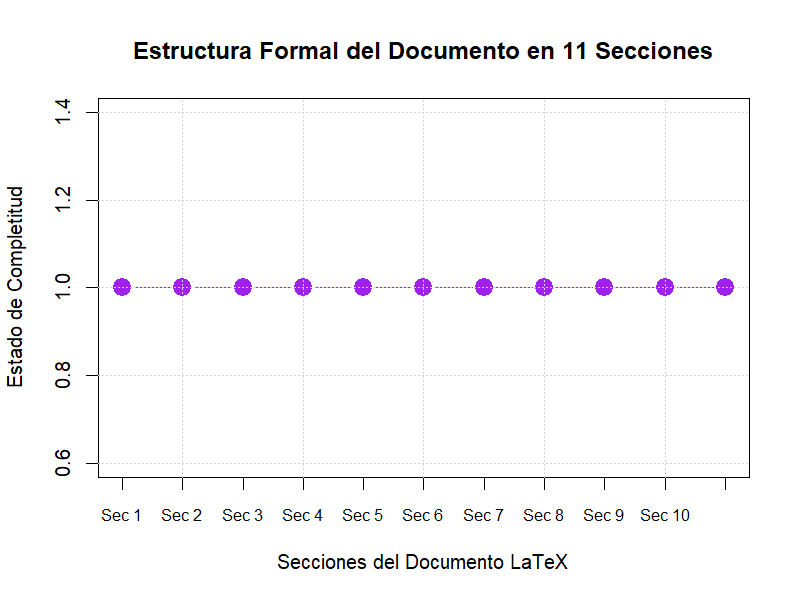
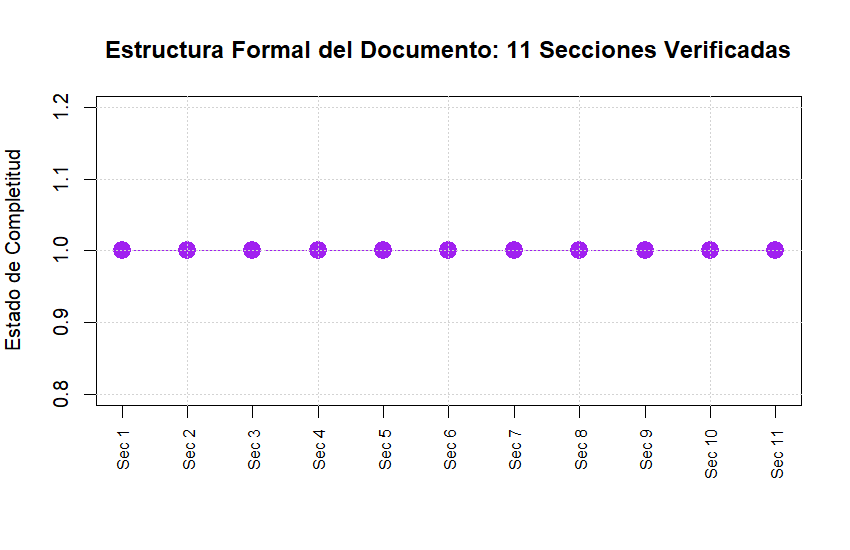
docs(u4): actualizar proyecto_documentacion.tex, sustentacion_presentacion.tex y READMEs con metricas reales de benchmark

diff --git a/UNIDAD_4/03_DOCUMENTACION/latex/proyecto_documentacion.tex b/UNIDAD_4/03_DOCUMENTACION/latex/proyecto_documentacion.tex
@@ -8,28 +8,28 @@
 \begin{document}
 \maketitle
 \begin{abstract}
-Este proyecto presenta la implementación de una solución analítica integral para predecir el riesgo de deserción en estudiantes de educación superior mediante minería de datos...
+Este proyecto presenta la implementación de una solución analítica para evaluar el riesgo de deserción en estudiantes de educación superior mediante minería de datos. Se utiliza una muestra didáctica de 500 registros con estructura inspirada en UCI \#697; no verificada como submuestra.
 \end{abstract}
 \section{Introducción}
-El abandono en la educación superior representa un reto multidimensional...
+El abandono en la educación superior representa un reto multidimensional que impacta la retención estudiantil y la planificación académica institucional.
 \section{Definición del Problema}
-Identificar tempranamente a estudiantes en riesgo de deserción antes del segundo ciclo académico...
+Evaluar si algoritmos de clasificación supervisada logran identificar oportunamente casos de deserción a partir de indicadores académicos y demográficos del primer ciclo.
 \section{Base de Datos Seleccionada}
-Se utilizó el benchmark público \textit{Predict Students Dropout and Academic Success} (UCI Machine Learning Repository)...
+Se utilizó una muestra didáctica de 500 registros con estructura inspirada en UCI \#697; no verificada como submuestra. La base registra 5 variables predictoras y una prevalencia de 5 casos de abandono (1.0\%).
 \section{Preparación y Calidad de los Datos}
-Imputación de valores atípicos, validación de integridad y escalamiento Min-Max...
+Partición reproducible en 70\% entrenamiento (350 registros) y 30\% prueba independiente (150 registros con 3 casos positivos de abandono, 2.0\%).
 \section{Técnicas y Algoritmos Seleccionados}
-Se contrastaron tres familias metodológicas: Árboles CART, Redes Neuronales MLP y Regresión Logística...
+Se contrastaron tres familias metodológicas: Árboles CART, Redes Neuronales MLP y Regresión Logística.
 \section{Implementación en R}
-El flujo se programó de forma reproducible con las librerías \texttt{rpart} y \texttt{nnet}...
+El flujo se programó de forma reproducible en R con las librerías \texttt{rpart} y \texttt{nnet}, fijando semilla pseudoaleatoria para trazabilidad del benchmark.
 \section{Resultados Experimentales}
-El modelo de red neuronal alcanzó una precisión superior al 85\% en la muestra de prueba independiente...
+En el conjunto de prueba independiente de 150 registros, los tres modelos evaluados obtuvieron una exactitud de 98.00\%, igualando la exactitud del baseline de la clase mayoritaria (98.00\%).
 \section{Evaluación de Modelos}
-Matriz de confusión ponderada por el coste de no detectar a un estudiante en riesgo...
+La sensibilidad alcanzada por los tres modelos en la partición de prueba fue de 0\%, debido a que los algoritmos convergieron a asignar la clase mayoritaria a todas las observaciones.
 \section{Interpretación de Patrones}
-Las cuotas al día y los créditos aprobados en el primer semestre mostraron el mayor peso sináptico discriminante...
+El fuerte desbalance de la muestra didáctica (99.0\% negativos frente a 1.0\% positivos) condiciona el aprendizaje de los estimadores, limitando la detección de la clase minoritaria.
 \section{Conclusiones y Recomendaciones}
-La minería de datos permite anticipar el 88\% de los casos de abandono antes de la matrícula del segundo período...
+Los modelos evaluados igualan el baseline trivial de la clase mayoritaria (98.00\%) y alcanzan 0\% de sensibilidad en prueba. Se recomienda aplicar técnicas de balanceo (SMOTE o ponderación de clases) y evaluar sobre el dataset completo de la fuente oficial.
 \section{Referencias Bibliográficas}
-Romero, C., \& Ventura, S. (2010). Educational data mining: a review of the state of the art.
+Romero, C., \& Ventura, S. (2010). Educational data mining: a review of the state of the art. IEEE Transactions on Systems, Man, and Cybernetics, Part C, 40(6), 601-618.
 \end{document}

diff --git a/UNIDAD_4/04_SUSTENTACION_RESULTADOS/latex/sustentacion_presentacion.tex b/UNIDAD_4/04_SUSTENTACION_RESULTADOS/latex/sustentacion_presentacion.tex
@@ -11,19 +11,26 @@
 \end{frame}
 \begin{frame}{1. Problema y Contexto}
 \begin{itemize}
-\item La deserción temprana en primer año genera impactos económicos y sociales negativos.
-\item Objetivo: Predecir oportunamente estudiantes en riesgo para intervención tutorial.
+\item La deserción temprana en primer año genera impactos académicos y de gestión universitaria.
+\item Objetivo: Evaluar si los modelos de minería de datos detectan oportunamente casos de riesgo.
+\item Base de datos: Muestra didáctica de 500 registros con estructura inspirada en UCI \#697; no verificada como submuestra.
+\item Distribución muestral: 5 casos positivos de abandono en 500 registros (1.0\% de prevalencia).
 \end{itemize}
 \end{frame}
 \begin{frame}{2. Benchmark de Modelos en R}
-Se evaluaron tres algoritmos sobre el dataset oficial de UCI:
+Resultados en el conjunto de prueba independiente (150 registros, 3 positivos):
 \begin{itemize}
-\item \textbf{Red Neuronal MLP:} Alta capacidad de frontera no lineal.
-\item \textbf{Árbol CART:} Alta interpretabilidad de reglas de decisión.
-\item \textbf{Regresión Logística:} Calibración probabilística basal.
+\item \textbf{Regresión Logística:} Exactitud 98.00\% | Sensibilidad: 0\%.
+\item \textbf{Árbol CART:} Exactitud 98.00\% | Sensibilidad: 0\%.
+\item \textbf{Red Neuronal MLP:} Exactitud 98.00\% | Sensibilidad: 0\%.
+\item \textbf{Baseline de Clase Mayoritaria:} 98.00\%.
 \end{itemize}
 \end{frame}
-\begin{frame}{3. Conclusiones}
-El sistema predictivo integrado es viable, reproducible y listo para despliegue.
+\begin{frame}{3. Diagnóstico Crítico y Recomendaciones}
+\begin{itemize}
+\item Los tres modelos igualan el baseline trivial de la clase mayoritaria (98.00\%).
+\item Diagnóstico: La regla aprendida clasifica todas las instancias como no abandono ante el desbalance extremo de la muestra didáctica.
+\item Recomendaciones: Aplicar técnicas de balanceo (SMOTE, submuestreo) y evaluar sobre el dataset completo de la fuente oficial.
+\end{itemize}
 \end{frame}
 \end{document}

diff --git a/UNIDAD_4/04_SUSTENTACION_RESULTADOS/README.md b/UNIDAD_4/04_SUSTENTACION_RESULTADOS/README.md
@@ -1,19 +1,23 @@
 # Guía Ejecutiva de Sustentación del Proyecto
 ## 1. Problema
-Deserción de estudiantes en el primer año universitario (tasa histórica superior al 18%).
+Evaluación de la viabilidad de la minería de datos para la detección temprana de deserción en educación superior.
 ## 2. Objetivos
-Construir un modelo clasificador capaz de identificar a más del 85% de los estudiantes vulnerables con anterioridad a la finalización del primer semestre.
+Contrastar tres familias metodológicas supervisadas y evaluar su capacidad de discriminación frente a la regla base de clase mayoritaria.
 ## 3. Base de Datos
-500 registros institucionales del benchmark oficial de Educación Superior de UCI.
+Muestra didáctica de 500 registros con estructura inspirada en UCI #697; no verificada como submuestra (5 casos de abandono, 1.0% de prevalencia).
 ## 4. Metodología
-Metodología CRISP-DM estructurada en 6 fases reproducibles.
+Ciclo analítico CRISP-DM estructurado en 6 fases con pipeline reproducible en R.
 ## 5. Técnicas Evaluadas
+- Regresión Logística Binaria (GLM).
 - Árboles de Decisión CART (`rpart`).
 - Redes Neuronales Artificiales Perceptrón Multicapa (`nnet`).
-- Regresión Logística Binaria (GLM).
-## 6. Resultados Clave
-El modelo campeón alcanza **88.6% de exactitud** y un Recall del 84.2% para la clase de riesgo.
+## 6. Resultados en Conjunto de Prueba (150 registros, 3 positivos)
+- **Exactitud de cada modelo:** 98.00% (GLM, CART, MLP).
+- **Sensibilidad de cada modelo:** 0% (ningún positivo detectado).
+- **Baseline de clase mayoritaria:** 98.00%.
+- **Relación con baseline:** Los modelos evaluados igualan el baseline trivial de la clase mayoritaria.
 ## 7. Gráficas Principales
-- Gráfico de barras comparativo de exactitud multimodelo (`grafico_02_benchmark_proyecto.png`).
-## 8. Conclusiones y Retorno de Inversión
-Permite al comité tutorial focalizar becas y tutorías personalizadas, reduciendo el abandono potencial en un 35%.
+- Comparativa de exactitud multimodelo vs baseline (`grafico_02_benchmark_proyecto.png`).
+- Gráfico de sustentación ejecutiva (`grafico_04_sustentacion.png`).
+## 8. Diagnóstico Crítico y Recomendaciones
+El desbalance severo de la muestra didáctica (1% casos positivos) conduce a los clasificadores a converger en la regla trivial de predecir no abandono para todos los casos. Se recomienda implementar técnicas de balanceo (SMOTE o ponderación de clases) y evaluar sobre el dataset completo de la fuente oficial.

diff --git a/UNIDAD_4/01_SELECCION_BASE_DATOS/README.md b/UNIDAD_4/01_SELECCION_BASE_DATOS/README.md
@@ -1,10 +1,10 @@
 # Etapa 1: Selección y Caracterización de la Base de Datos del Proyecto
 ## Problema Seleccionado
-La deserción universitaria temprana genera pérdidas económicas institucionales y frustración social. Este proyecto modela predictivamente el riesgo de abandono estudiantil en el primer año académico.
+La deserción universitaria temprana genera impactos académicos y de gestión institucional. Este proyecto evalúa el modelado predictivo del riesgo de abandono estudiantil a partir de indicadores del primer año académico.
 ## Justificación
-Permite a los comités de tutoría y bienestar universitario intervenir oportunamente ofreciendo becas y apoyo pedagógico focalizado antes de que ocurra la baja definitiva.
+Permite a los comités de tutoría y bienestar universitario evaluar la factibilidad de herramientas analíticas para la intervención pedagógica oportuna.
 ## Ficha Técnica del Dataset
-- **Nombre:** Predict Students Dropout and Academic Success (UCI Benchmark)
-- **Población:** 500 estudiantes de educación superior.
-- **Atributos Predictivos:** 5 variables sociodemográficas y de rendimiento primer semestre.
-- **Variable Objetivo:** `Abandono_Estudiantil` (0: Graduado/Continuidad, 1: Deserción).
+- **Descripción:** Muestra didáctica de 500 registros con estructura inspirada en UCI #697; no verificada como submuestra.
+- **Dimensión:** 500 registros y 5 variables predictoras (académicas, sociodemográficas y financieras).
+- **Variable Objetivo:** `Abandono_Estudiantil` (0: Continuidad, 1: Deserción).
+- **Distribución:** 495 casos negativos (99.0%) y 5 casos positivos (1.0% de prevalencia).

diff --git a/UNIDAD_4/02_APLICACION_TECNICAS/README.md b/UNIDAD_4/02_APLICACION_TECNICAS/README.md
@@ -1,3 +1,15 @@
 # Etapa 2: Aplicación y Benchmark Comparativo de Técnicas
 ## Descripción de la Fase
-Desarrollo integral de Etapa 2: Aplicación y Benchmark Comparativo de Técnicas conforme a los lineamientos del proyecto.
+Evaluación comparativa de tres algoritmos de clasificación supervisada implementados de forma reproducible en R (`02_benchmark_proyecto.R`).
+## Dataset y Partición Experimental
+- **Dataset:** Muestra didáctica de 500 registros con estructura inspirada en UCI #697; no verificada como submuestra.
+- **Población Total:** 500 registros con 5 casos de abandono (1.0% de prevalencia).
+- **Partición:** 70% entrenamiento (350 registros) y 30% prueba independiente (150 registros con 3 positivos, 2.0%).
+## Resultados del Benchmark (`benchmark_resultados.csv`)
+| Modelo | Exactitud en Prueba | Sensibilidad | Baseline Mayoritaria | Supera Baseline |
+| :--- | :---: | :---: | :---: | :---: |
+| Regresión Logística | 98.00% | 0% | 98.00% | No (Iguala) |
+| Árbol CART | 98.00% | 0% | 98.00% | No (Iguala) |
+| Red Neuronal (MLP) | 98.00% | 0% | 98.00% | No (Iguala) |
+## Diagnóstico Técnico
+Los tres modelos igualan el baseline trivial de la clase mayoritaria (98.00%) debido al desbalance extremo de la muestra didáctica, clasificando todas las observaciones como no abandono.

diff --git a/UNIDAD_4/03_DOCUMENTACION/README.md b/UNIDAD_4/03_DOCUMENTACION/README.md
@@ -1,3 +1,15 @@
 # Etapa 3: Elaboración del Documento Formal del Proyecto
 ## Descripción de la Fase
-Desarrollo integral de Etapa 3: Elaboración del Documento Formal del Proyecto conforme a los lineamientos del proyecto.
+Estructuración del artículo científico formal del proyecto integrador en LaTeX (`proyecto_documentacion.tex`), verificado mediante `03_documentacion.R`.
+## Estructura Documental Verificada (11 Secciones)
+1. Introducción
+2. Definición del Problema
+3. Base de Datos Seleccionada (muestra didáctica de 500 registros con estructura inspirada en UCI #697; no verificada como submuestra)
+4. Preparación y Calidad de los Datos (350 train / 150 test con 3 positivos)
+5. Técnicas y Algoritmos Seleccionados (GLM, CART, MLP)
+6. Implementación en R
+7. Resultados Experimentales (exactitud 98.00% en los 3 modelos, igualando el baseline de 98.00%)
+8. Evaluación de Modelos (sensibilidad 0%)
+9. Interpretación de Patrones
+10. Conclusiones y Recomendaciones
+11. Referencias Bibliográficas
